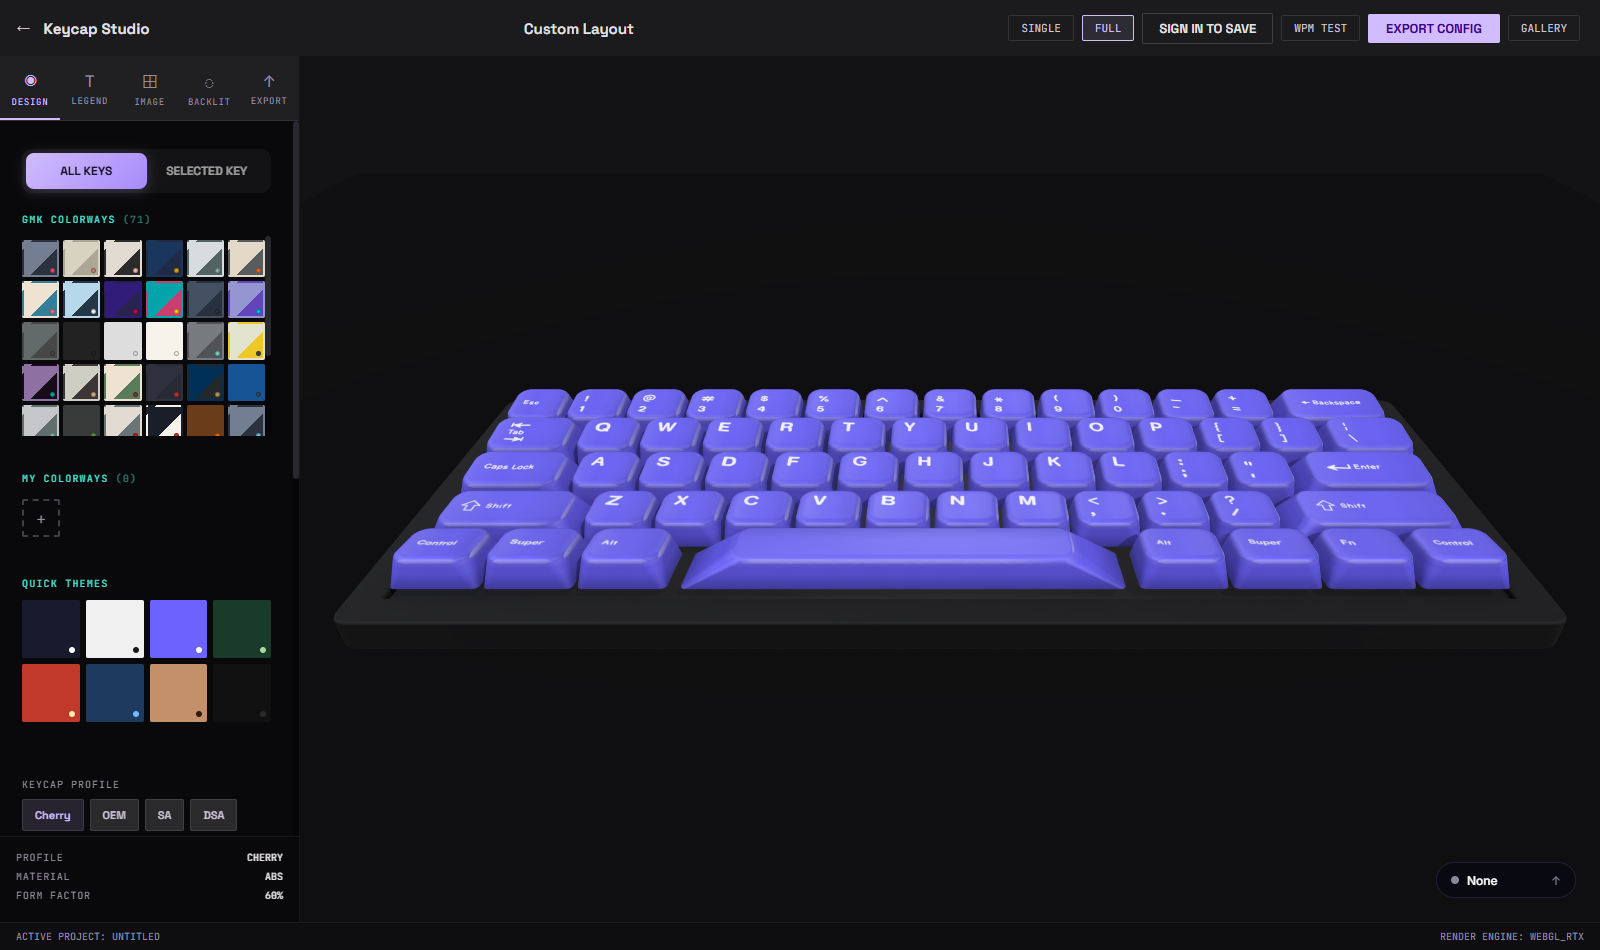
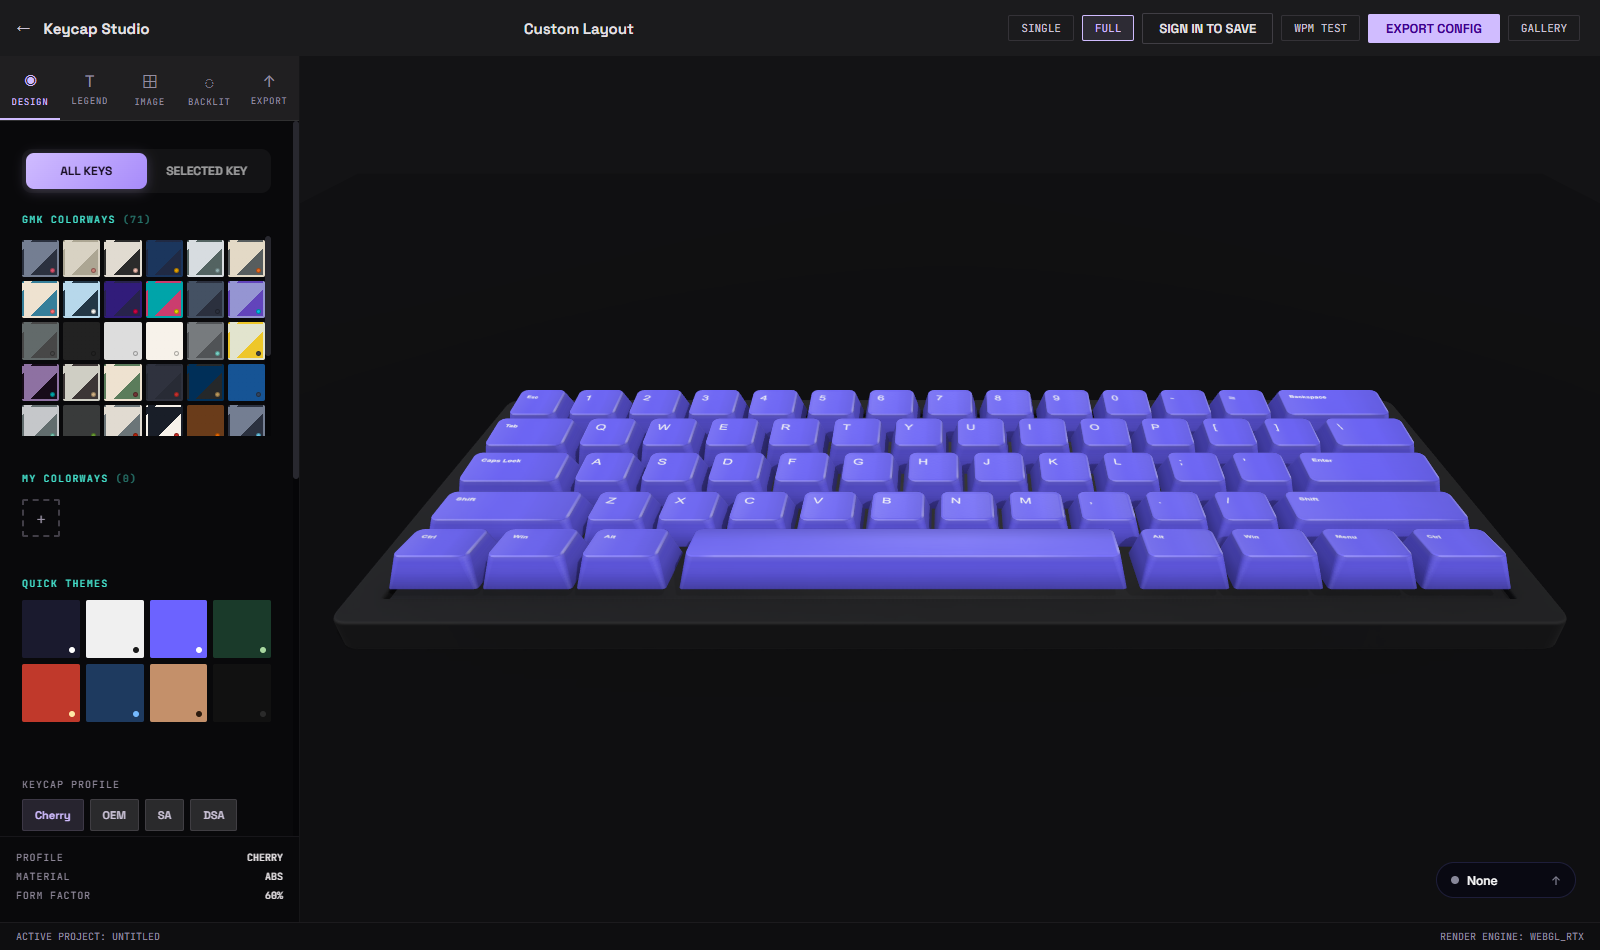
fix: flag front-legend caps in print manifest (top art intentionally blank)

Changed region(s): [[0.25, 0.3968, 0.9375, 0.6105]]

diff --git a/src/lib/printExport.js b/src/lib/printExport.js
@@ -235,6 +235,9 @@ export async function exportPNGPack({ state, layout, dpi = 600, setName = 'keyca
       apertureMm: [+mm.plateW.toFixed(2), +mm.plateH.toFixed(2)],
       fullTopMm: [+mm.fullW.toFixed(2), +mm.fullH.toFixed(2)],
       stamps: art.desc.stamps.length,
+      // Front-legend sets: the top art is intentionally blank — front-face
+      // print art isn't generated yet (front aperture needs its own masks).
+      ...(art.desc.legendPosition === 'front' ? { frontLegend: true, note: 'top art blank — front-face art not generated yet' } : {}),
     });
   }
   zip.file('manifest.json', JSON.stringify(manifest, null, 2));
